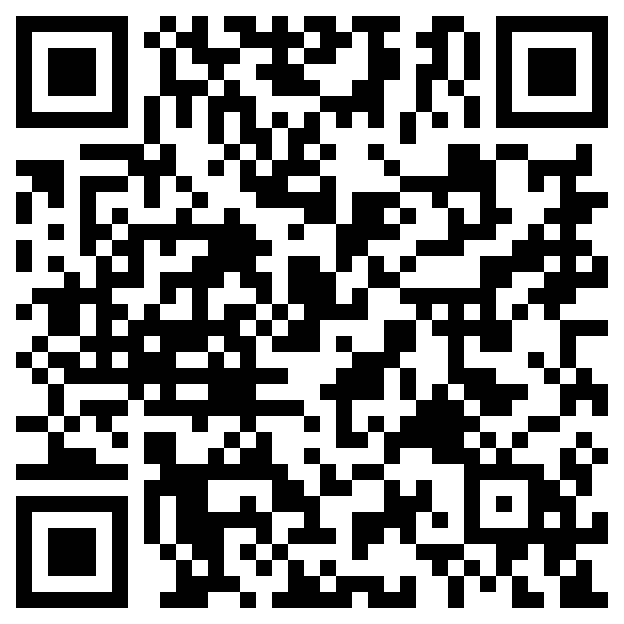
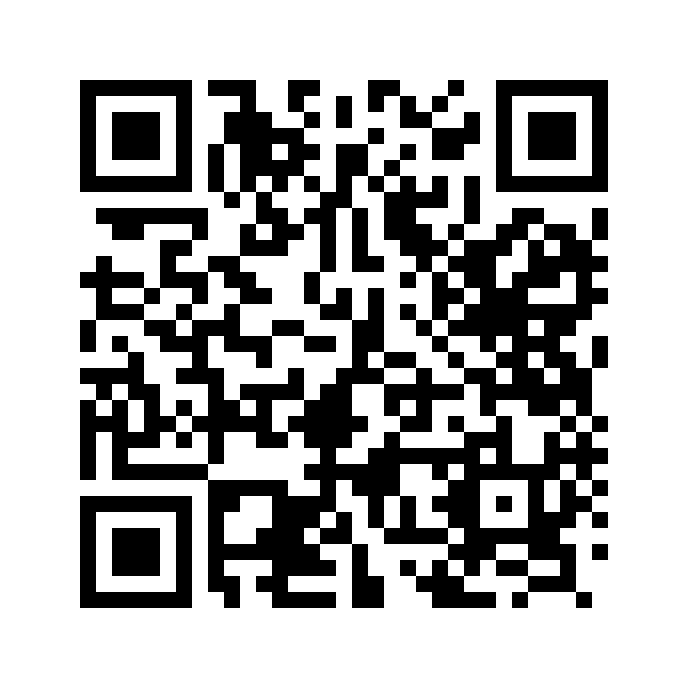
fix: provide a scannable warranty registration QR

diff --git a/test/assets/decode-qr.swift b/test/assets/decode-qr.swift
@@ -1,0 +1,30 @@
+import AppKit
+import Foundation
+import Vision
+
+guard CommandLine.arguments.count == 2 else {
+  fputs("Usage: decode-qr.swift <png-path>\n", stderr)
+  exit(64)
+}
+
+let path = CommandLine.arguments[1]
+guard let image = NSImage(contentsOfFile: path),
+      let cgImage = image.cgImage(forProposedRect: nil, context: nil, hints: nil) else {
+  fputs("Unable to read QR image\n", stderr)
+  exit(65)
+}
+
+let request = VNDetectBarcodesRequest()
+request.symbologies = [.qr]
+let handler = VNImageRequestHandler(cgImage: cgImage)
+
+do {
+  try handler.perform([request])
+  let payloads = (request.results ?? []).compactMap(\.payloadStringValue)
+  for payload in payloads {
+    print(payload)
+  }
+} catch {
+  fputs("Unable to decode QR image\n", stderr)
+  exit(66)
+}

diff --git a/src/website/_pages/warranty-registration/warranty-registration.component.ts b/src/website/_pages/warranty-registration/warranty-registration.component.ts
@@ -4,7 +4,7 @@ import { FormBuilder, ReactiveFormsModule, Validators } from '@angular/forms';
 import { MatIconModule } from '@angular/material/icon';
 import { RouterModule } from '@angular/router';
 
-const WARRANTY_URL = 'https://www.navrik.com.au/register-warranty';
+const WARRANTY_URL = 'https://navrik.com.au/register-warranty';
 
 @Component({
   selector: 'website-warranty-registration',
